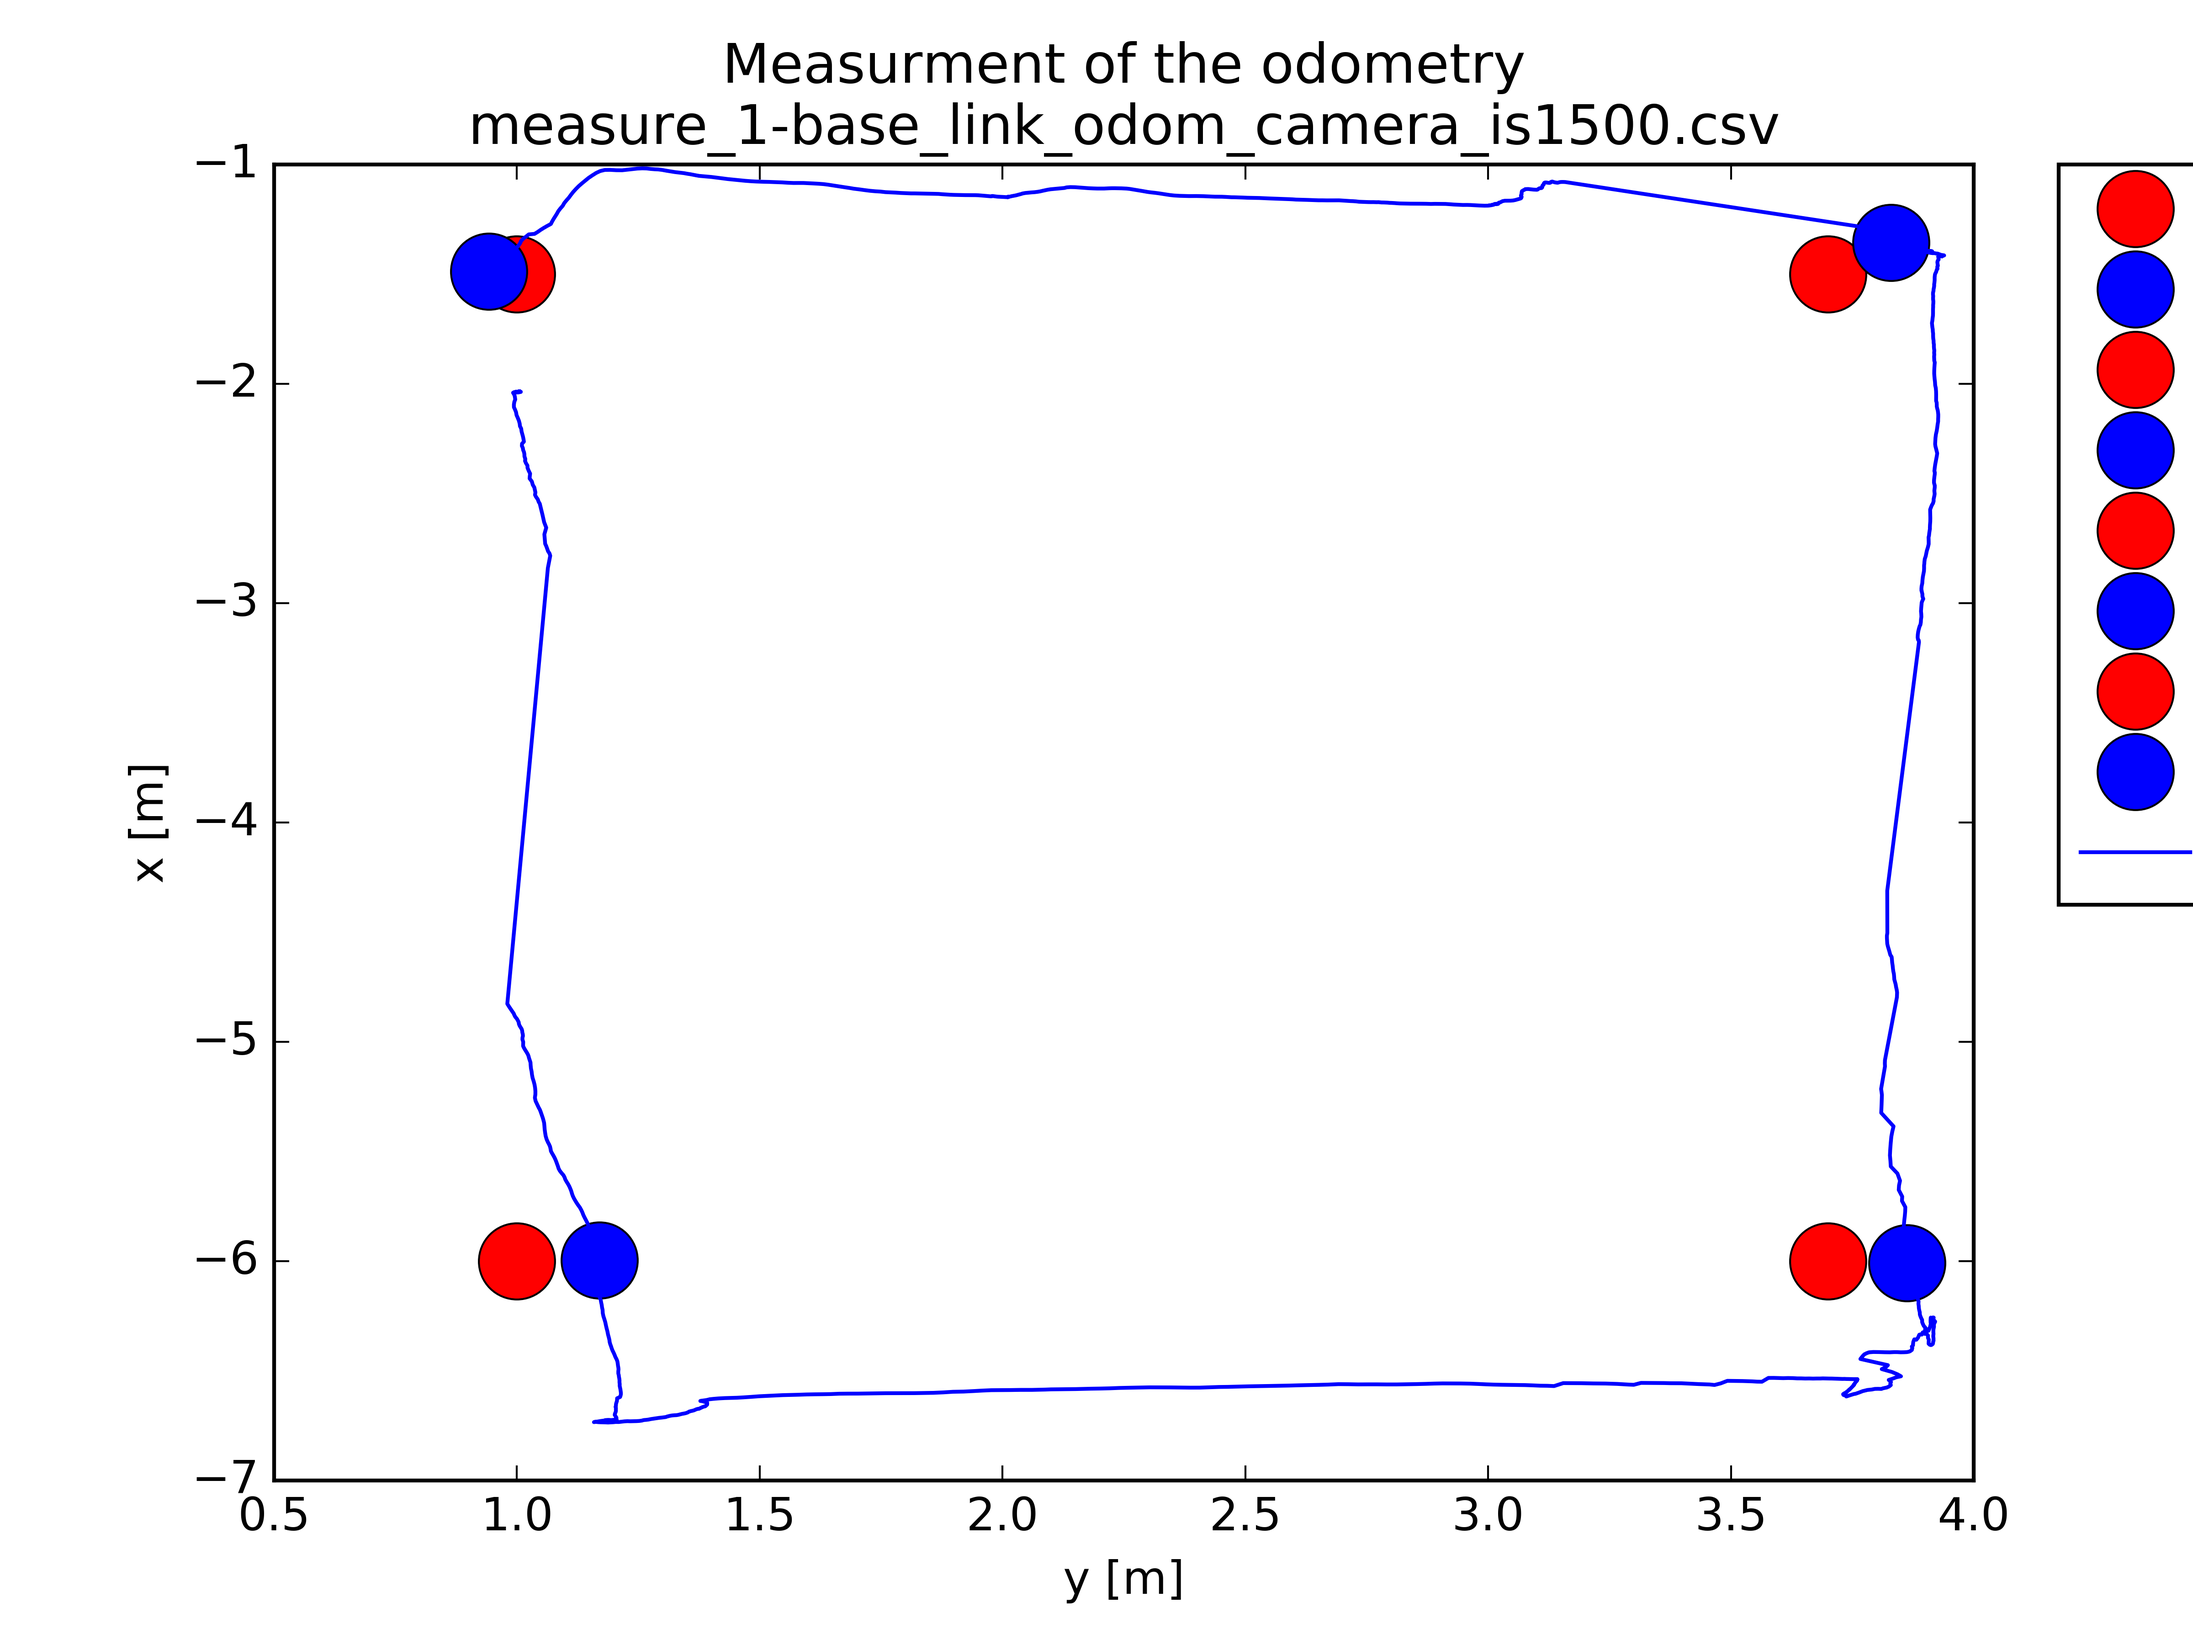
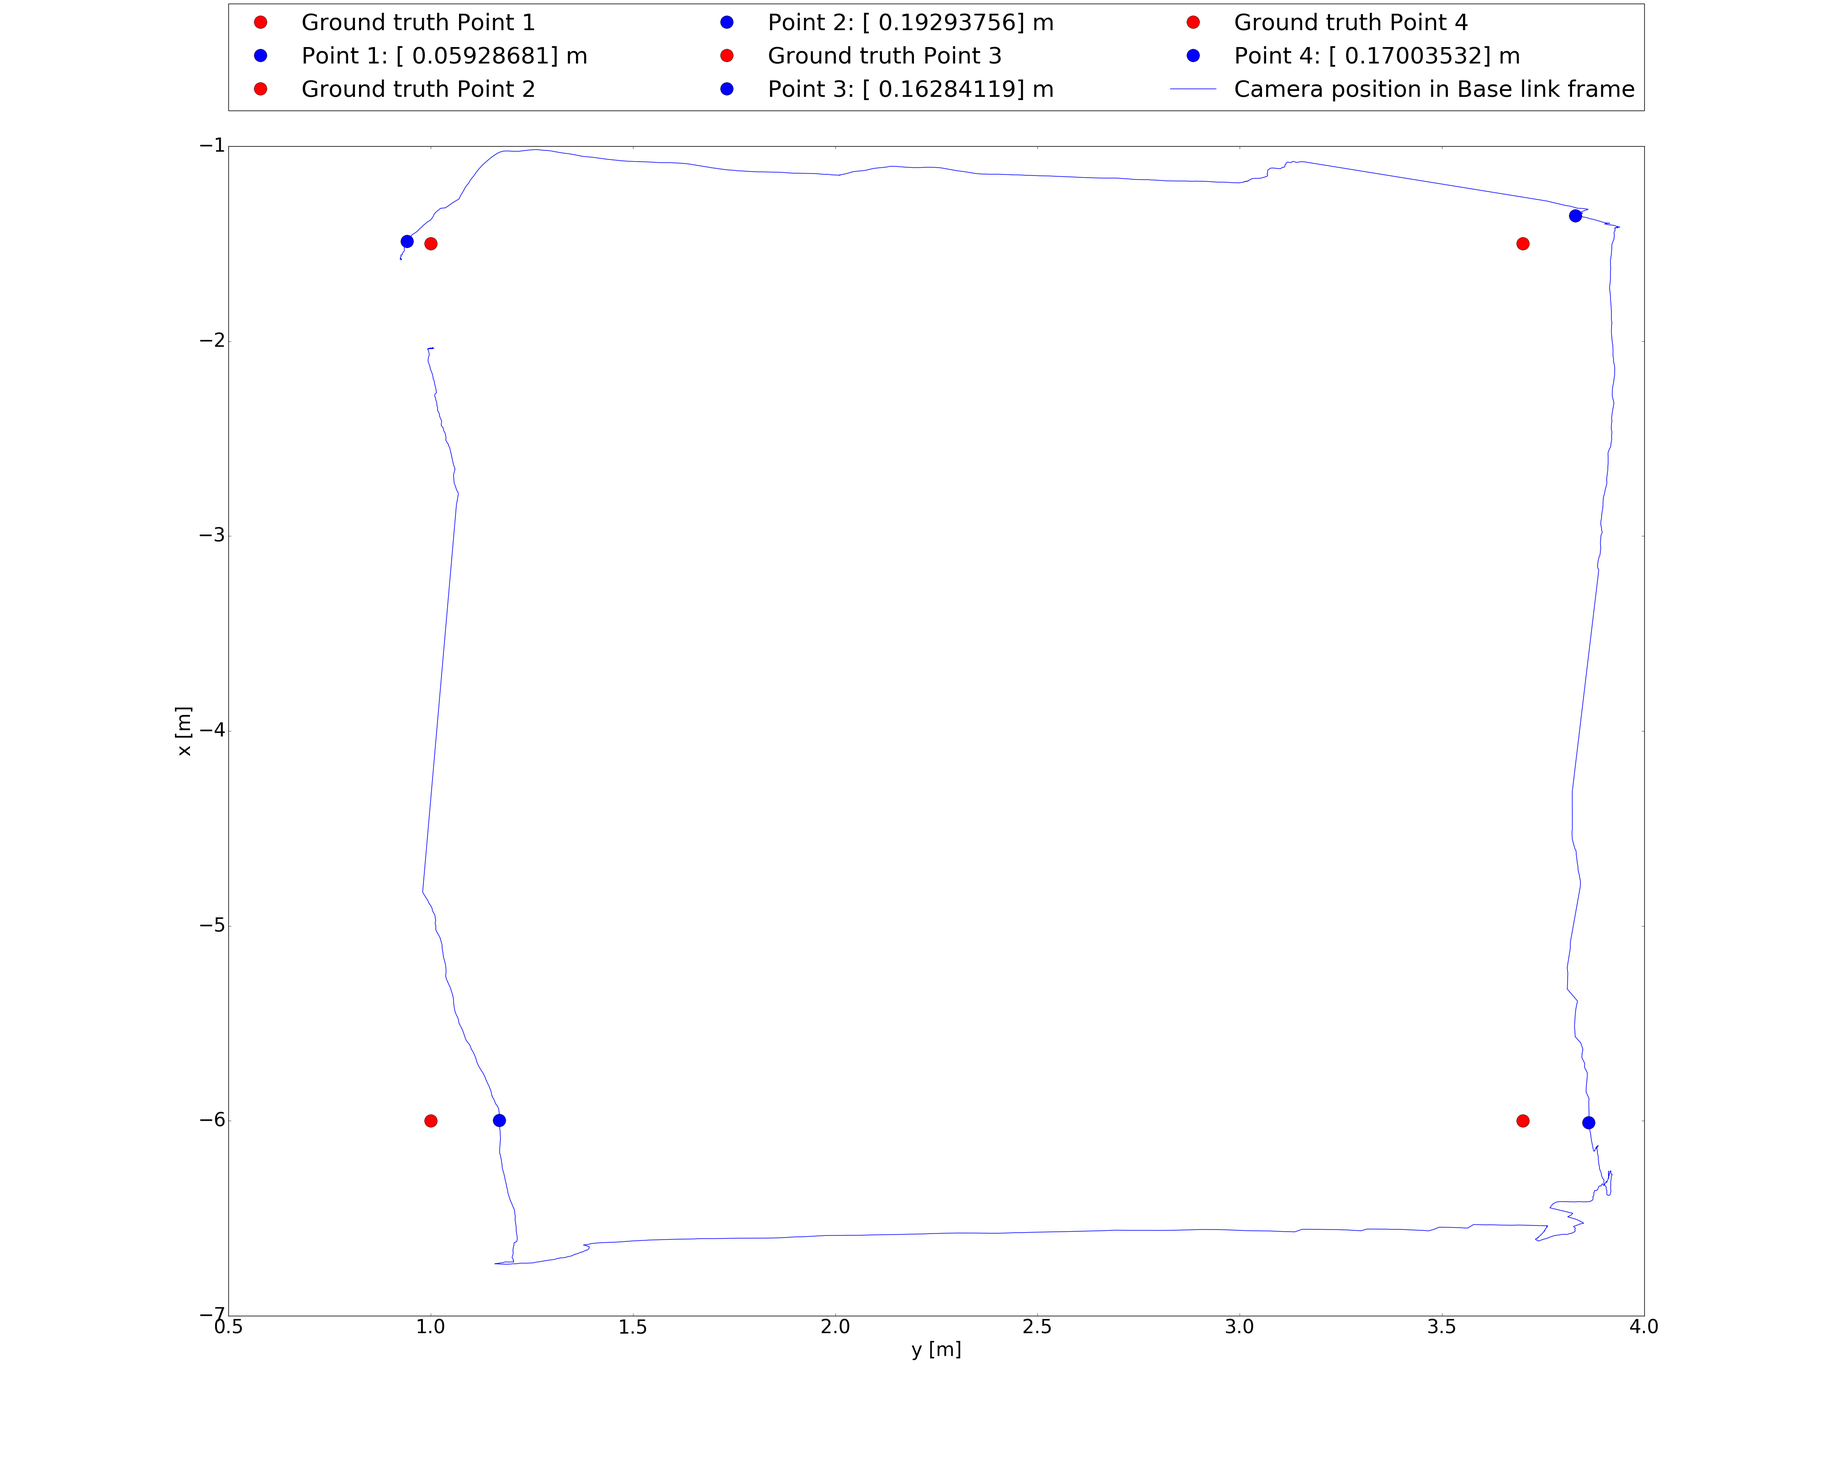
final graph

diff --git a/Kyb_prog/indoor_measurment/manual_measurment_indoor/plot_improvment.py b/Kyb_prog/indoor_measurment/manual_measurment_indoor/plot_improvment.py
@@ -64,11 +64,11 @@ def function(file_name_arg):
   return (err_min_1, err_min_1, n_1, Strecke_1)
 
 if __name__== "__main__":
-
+    plt.rcParams.update({'font.size': 30})
     file_name = 'measure_1-base_link_odom_camera_is1500.csv'
     err_min_1, err_min_1, n_1, Strecke_1 = function(file_name)
     # print(Strecke_1[int(1)][int(1)])
-    f = plt.figure(1)
+    f = plt.figure(1, figsize=(40, 32))
     for i in range(0, len(Strecke_1), 1):
         plt.plot(Strecke_1[int(i)][int(0)], Strecke_1[int(i)][int(1)], 'o' ,color='red', markersize=20, label="Ground truth Point " +str(i+1))
         plt.plot(base_link_x_odom_camera[int(n_1[i])], base_link_y_odom_camera[int(n_1[i])], 'o' ,color='blue', markersize=20, label="Point " +str(i+1) + ": " + str(err_min_1[i]) + " m")
@@ -78,25 +78,21 @@ if __name__== "__main__":
 
     plt.xlabel('y [m]')
     plt.ylabel('x [m]')
-    plt.title('Measurment of the odometry' + '\n' + file_name)
+    # plt.title('Measurment of the odometry' + '\n' + file_name)
     # plt.legend()
-    # plt.legend(numpoints=1, bbox_to_anchor=(0., 1.02, 1., .102), loc=3,
-    #            ncol=2, mode="expand", borderaxespad=0.)
+    plt.legend(numpoints=1, bbox_to_anchor=(0., 1.02, 1., .102), loc=1,
+               ncol=3, mode="expand", borderaxespad=0.)#bbox_to_anchor=(0., 1.02, 1., .102)
     # plt.legend(numpoints=1, bbox_to_anchor=(1.05, 1), loc=2, borderaxespad=0.)
-    plt.legend(numpoints=1, bbox_to_anchor=(1.05, 1), loc=2, borderaxespad=0.)
+    # plt.legend(numpoints=1, bbox_to_anchor=(1.05, 1), loc=2, borderaxespad=0.)
     # f.set_size_inches(20, 15)
-    # Option 2
-    # QT backend
-    manager = plt.get_current_fig_manager()
-    manager.resize(*manager.window.maxsize())
-    f.savefig(file_name+'.png', dpi=600)
+    f.savefig(file_name+'.png')
     plt.close(f)
 
     file_name = 'measure_2-base_link_odom_camera_is1500.csv'
     err_min_1, err_min_1, n_1, Strecke_1 = function(file_name)
 
 
-    g = plt.figure(2)
+    g = plt.figure(2, figsize=(40, 32))
     for i in range(0, len(Strecke_1), 1):
         plt.plot(Strecke_1[int(i)][int(0)], Strecke_1[int(i)][int(1)], 'o' ,color='red', markersize=20, label="Ground truth Point " +str(i+1))
         plt.plot(base_link_x_odom_camera[int(n_1[i])], base_link_y_odom_camera[int(n_1[i])], 'o' ,color='blue', markersize=20, label="Point " +str(i+1) + ": " + str(err_min_1[i]) + " m")
@@ -108,15 +104,15 @@ if __name__== "__main__":
     plt.ylabel('x [m]')
     plt.title('Measurment of the odometry' + '\n' + file_name)
     # plt.legend()
-    plt.legend(numpoints=1, bbox_to_anchor=(0., 1.02, 1., .102), loc=3,
-               ncol=2, mode="expand", borderaxespad=0.)
-    g.savefig(file_name+'.png', dpi=600)
+    plt.legend(numpoints=1, bbox_to_anchor=(0., 1.02, 1., .102), loc=1,
+               ncol=3, mode="expand", borderaxespad=0.)
+    g.savefig(file_name+'.png')
     plt.close(g)
 
     file_name = 'measure_3-base_link_odom_camera_is1500.csv'
     err_min_1, err_min_1, n_1, Strecke_1 = function(file_name)
 
-    h = plt.figure(3)
+    h = plt.figure(3, figsize=(40, 32))
     for i in range(0, len(Strecke_1), 1):
         plt.plot(Strecke_1[int(i)][int(0)], Strecke_1[int(i)][int(1)], 'o' ,color='red', markersize=20, label="Ground truth Point " +str(i+1))
         plt.plot(base_link_x_odom_camera[int(n_1[i])], base_link_y_odom_camera[int(n_1[i])], 'o' ,color='blue', markersize=20, label="Point " +str(i+1) + ": " + str(err_min_1[i]) + " m")
@@ -128,15 +124,15 @@ if __name__== "__main__":
     plt.ylabel('x [m]')
     plt.title('Measurment of the odometry' + '\n' + file_name)
     # plt.legend()
-    plt.legend(numpoints=1, bbox_to_anchor=(0., 1.02, 1., .102), loc=3,
-               ncol=2, mode="expand", borderaxespad=0.)
-    h.savefig(file_name+'.png', dpi=600)
+    plt.legend(numpoints=1, bbox_to_anchor=(0., 1.02, 1., .102), loc=1,
+               ncol=3, mode="expand", borderaxespad=0.)
+    h.savefig(file_name+'.png')
     plt.close(h)
 
     file_name = 'threeTour-base_link_odom_camera_is1500.csv'
     err_min_1, err_min_1, n_1, Strecke_1 = function(file_name)
 
-    l = plt.figure(4)
+    l = plt.figure(4, figsize=(40, 32))
     for i in range(0, len(Strecke_1), 1):
         plt.plot(Strecke_1[int(i)][int(0)], Strecke_1[int(i)][int(1)], 'o' ,color='red', markersize=20, label="Ground truth Point " +str(i+1))
         plt.plot(base_link_x_odom_camera[int(n_1[i])], base_link_y_odom_camera[int(n_1[i])], 'o' ,color='blue', markersize=20, label="Point " +str(i+1) + ": " + str(err_min_1[i]) + " m")
@@ -148,8 +144,8 @@ if __name__== "__main__":
     plt.ylabel('x [m]')
     plt.title('Measurment of the odometry' + '\n' + file_name)
     # plt.legend()
-    plt.legend(numpoints=1, bbox_to_anchor=(0., 1.02, 1., .102), loc=3,
-               ncol=2, mode="expand", borderaxespad=0.)
-    l.savefig(file_name+'.png', dpi=600)
+    plt.legend(numpoints=1, bbox_to_anchor=(0., 1.02, 1., .102), loc=1,
+               ncol=3, mode="expand", borderaxespad=0.)
+    l.savefig(file_name+'.png')
     plt.close(l)
     plt.show()
